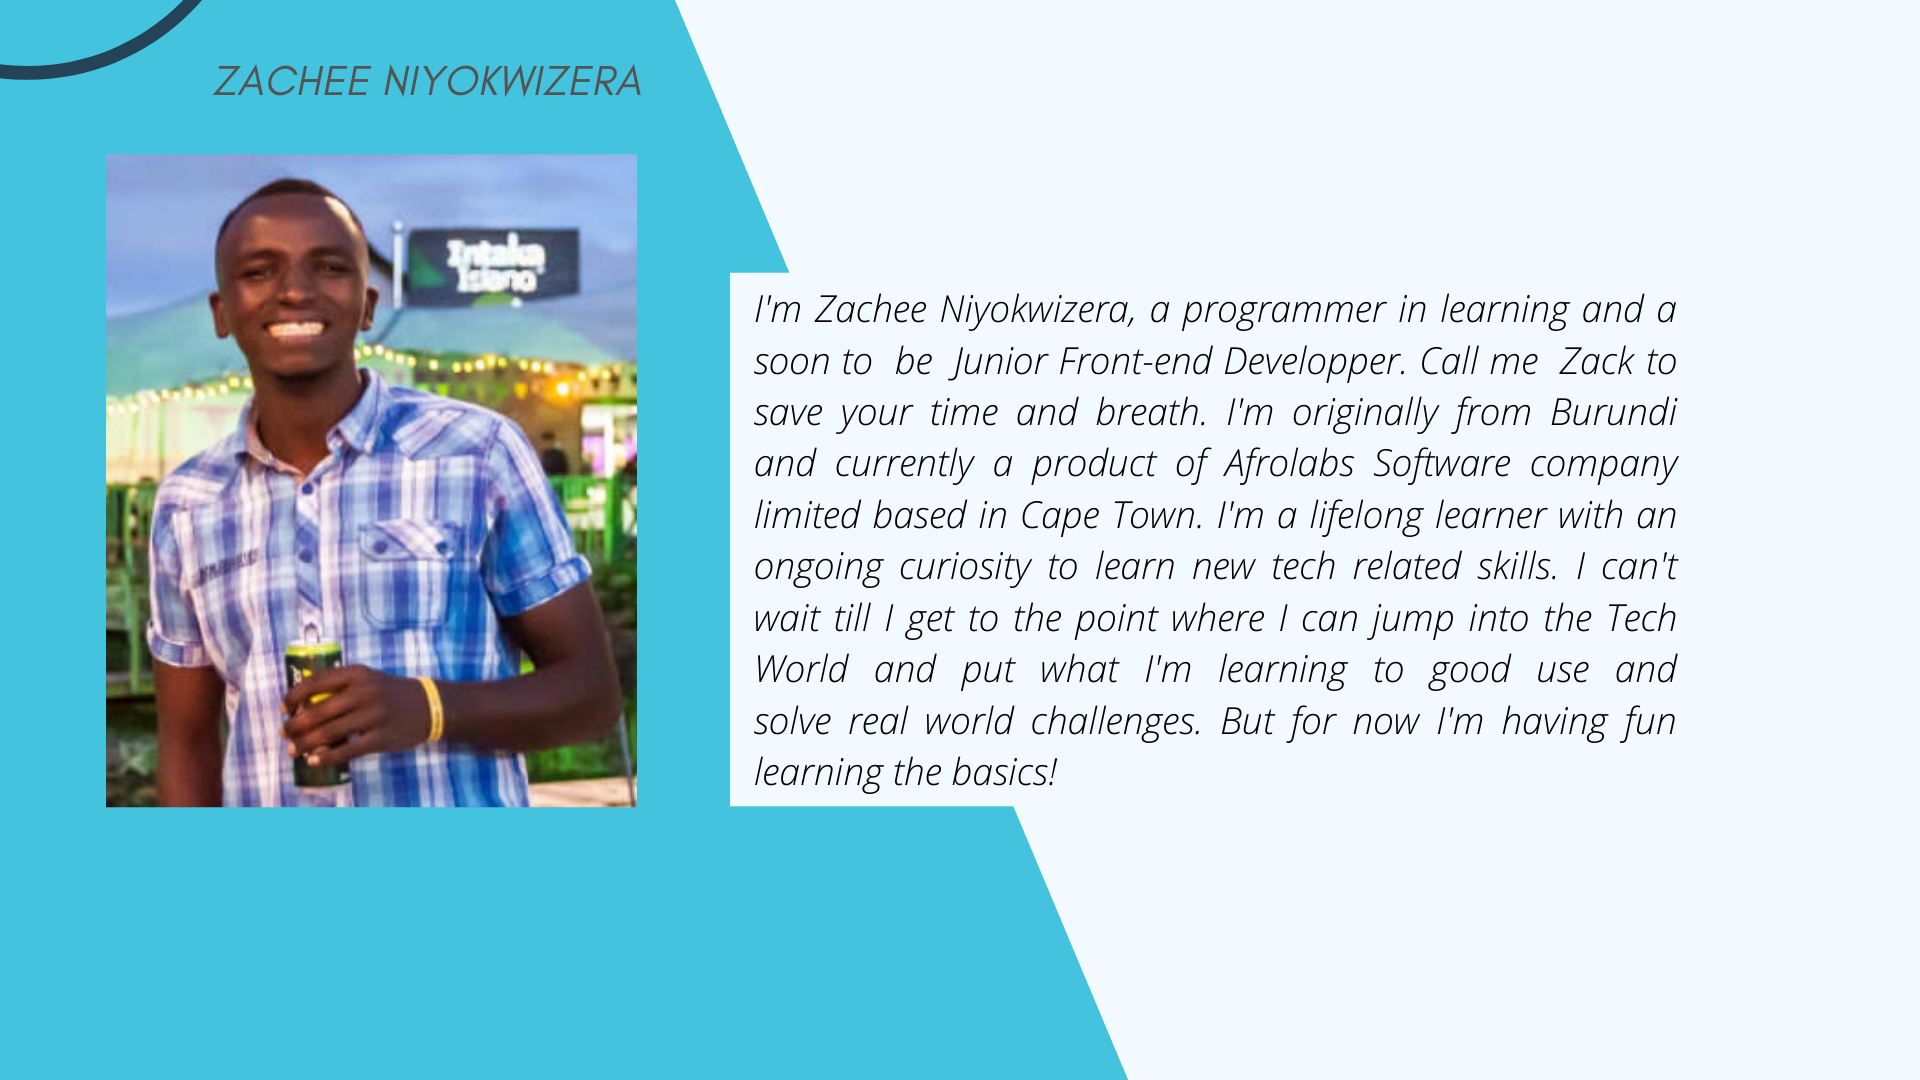
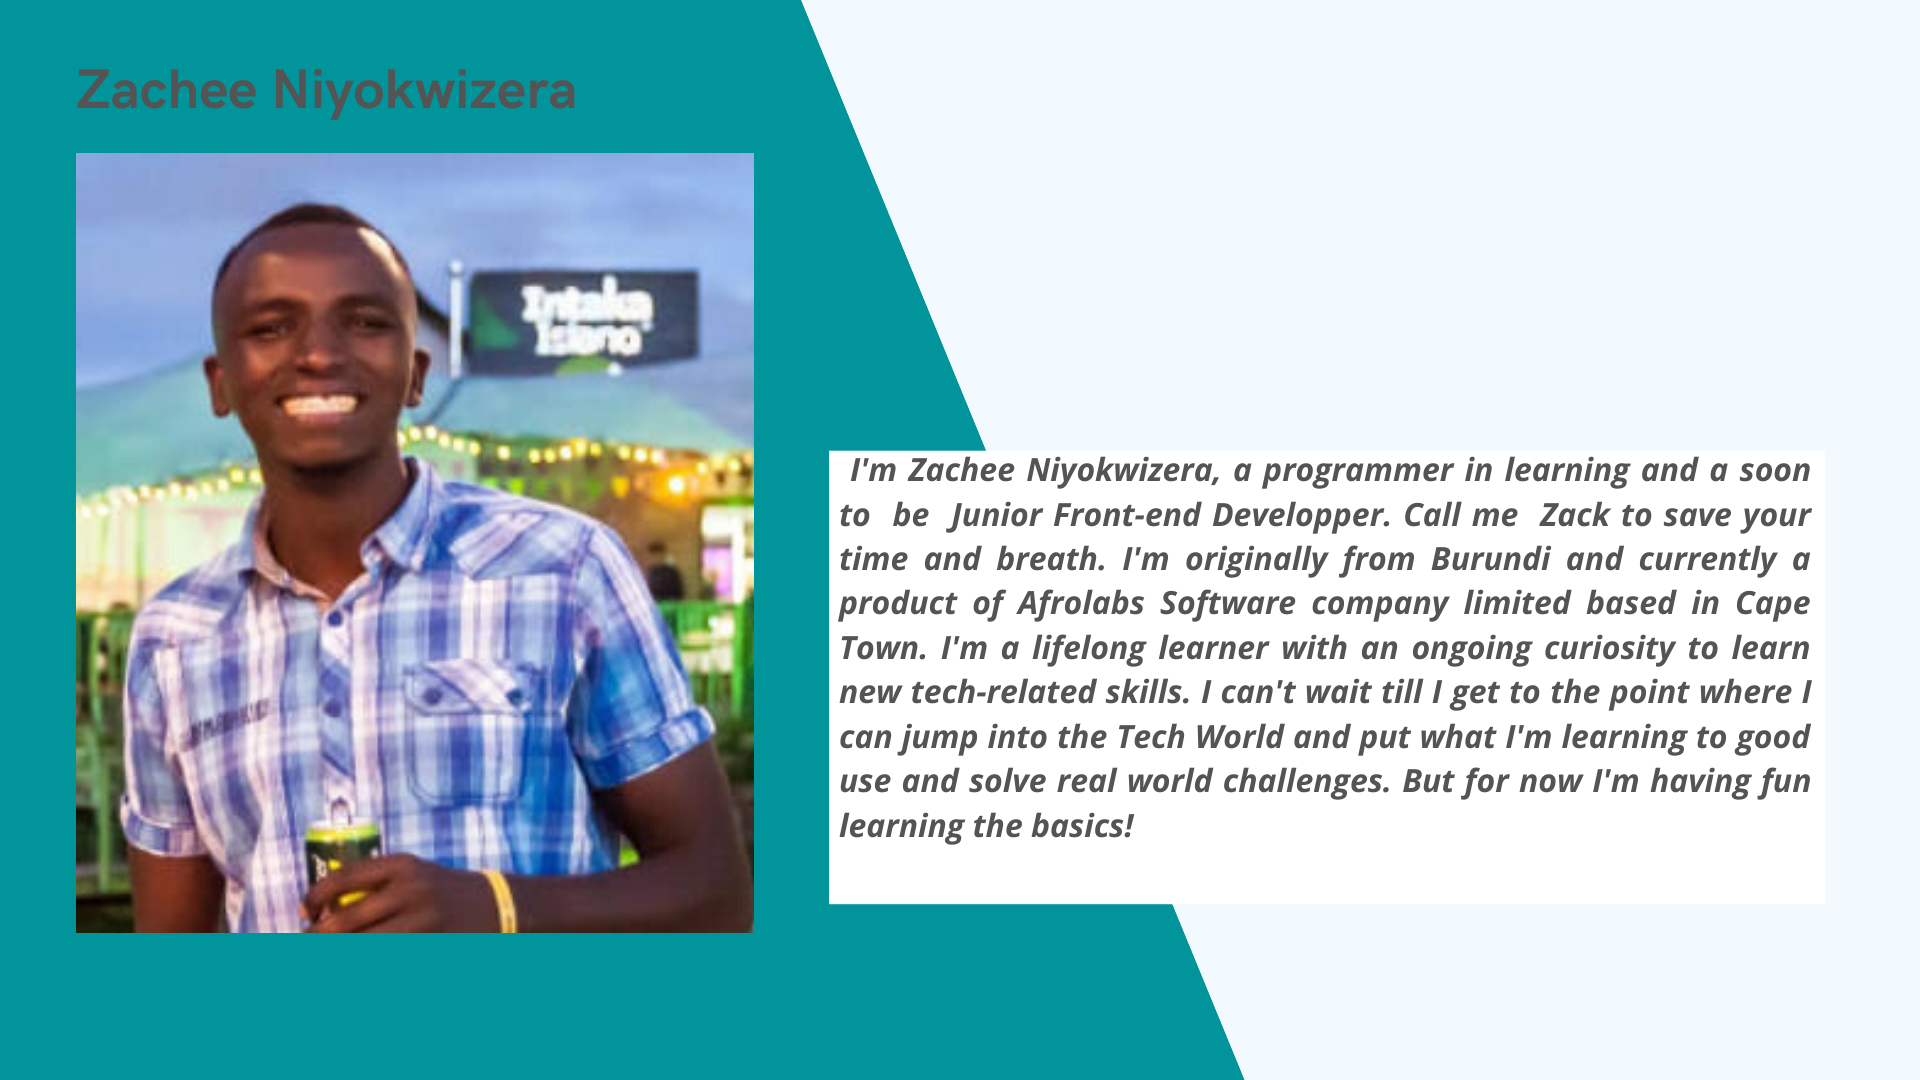
added some cool features mostly links

diff --git a/index.html b/index.html
@@ -1,25 +1,33 @@
 <!DOCTYPE html>
 <html>
 
-<meta charset="UTF-8">
-<meta name="viewport" content="width=device-width, initial-scale=1">
-<link rel="stylesheet" href="https://www.w3schools.com/w3css/4/w3.css">
-<link rel="stylesheet" href="style.css">
-<link rel="stylesheet" href="https://cdnjs.cloudflare.com/ajax/libs/font-awesome/4.7.0/css/font-awesome.min.css">
-<style>
-    html,
-    body,
-    h1,
-    h2,
-    h3,
-    h4,
-    h5,
-    h6 {
-        font-family: "Roboto", sans-serif
-    }
-</style>
+<head>
+    <meta charset="UTF-8">
+    <meta name="viewport" content="width=device-width, initial-scale=1">
+    <link rel="stylesheet" href="https://www.w3schools.com/w3css/4/w3.css">
+    <link rel="stylesheet" href="style.css">
+    <link rel="stylesheet" href="https://cdnjs.cloudflare.com/ajax/libs/font-awesome/4.7.0/css/font-awesome.min.css">
 
-<body>
+    <script>
+        function myFunction() {
+            alert("Hi there! welcome to the Portfolio of Mr zack 😄 We are glad you are here. Have Fun 😂");
+        }
+    </script>
+    <style>
+        html,
+        body,
+        h1,
+        h2,
+        h3,
+        h4,
+        h5,
+        h6 {
+            font-family: "Roboto", sans-serif
+        }
+    </style>
+</head>
+
+<body onload="myFunction()">
     <div class="navbar">
         <ul>
             <li><a href="#resume">Contact</a></li>
@@ -39,28 +47,32 @@
             <img src="calc.png" alt="Avatar" style="width:100%">
             <div class="the-container">
                 <h4><b>Javascript calculator</b></h4>
-
+                <a href='https://cdpn.io/MR-ZACK/debug/ExYBPvO/xnMabZJWWGEr'><button>Live demo</button></a>
+                <a href='https://github.com/zackniyokwizera/fcc-javascript-calculator'><button>Github</button></a>
             </div>
         </div>
         <div class="the-card">
             <img src="weather.png" alt="Avatar" style="width:100%">
             <div class="the-container">
                 <h4><b>Weather App</b></h4>
-
+                <a href='file:///C:/Users/dev/Pictures/Screenshots/Desktop/my-weather-pp/index.html'><button>Live demo</button></a>
+                <a href='https://github.com/zackniyokwizera/my-weather-app'><button>Github</button></a>
             </div>
         </div>
         <div class="the-card">
             <img src="pigame.PNG" alt="Avatar" style="width:100%">
             <div class="the-container">
                 <h4><b>Pig Game</b></h4>
-
+                <a href='file:///C:/Users/dev/Pictures/Screenshots/Desktop/4-DOM-pig-game/final/index.html'><button>Live demo</button></a>
+                <a href='https://github.com/zackniyokwizera/4-DOM-pig-game'><button>Github</button></a>
             </div>
         </div>
         <div class="the-card">
             <img src="quotes.png" alt="Avatar" style="width:100%">
             <div class="the-container">
                 <h4><b>Random quote Machine</b></h4>
-
+                <a href='https://cdpn.io/MR-ZACK/debug/BaBGqMW/mVMbGDqWWZVr'><button>Live demo</button></a>
+                <a href='https://github.com/zackniyokwizera/Random-quote-machine'><button>Github</button></a>
             </div>
         </div>
     </div>
@@ -95,7 +107,7 @@
                             <hr>
 
                             <p class="w3-large"><b><i
-                                        class="fa fa-asterisk fa-fw w3-margin-right w3-text-teal"></i>Technical
+                            class="fa fa-asterisk fa-fw w3-margin-right w3-text-teal"></i>Technical
                                     Skills</b></p>
                             <p>Programing</p>
                             <div class="version">
@@ -123,23 +135,23 @@
                             <br>
 
                             <p class="w3-large w3-text-theme"><b>
-                                    <i class="fa fa-globe fa-fw w3-margin-right w3-text-teal"></i>Languages</b>
+                            <i class="fa fa-globe fa-fw w3-margin-right w3-text-teal"></i>Languages</b>
                             </p>
                             <p>French</p>
-                            <div class="w3-light-grey w3-round-xlarge">
-                                <div class="w3-round-xlarge w3-grey" style="height:24px;width:60%"></div>
+                            <div class="w3-light-teal w3-round-xlarge">
+                                <div class="w3-round-xlarge w3-teal" style="height:24px;width:60%"></div>
                             </div>
                             <p>English</p>
-                            <div class="w3-light-grey w3-round-xlarge">
-                                <div class="w3-round-xlarge w3-grey" style="height:24px;width:90%"></div>
+                            <div class="w3-light-teal w3-round-xlarge">
+                                <div class="w3-round-xlarge w3-teal" style="height:24px;width:90%"></div>
                             </div>
                             <p>Swahili</p>
-                            <div class="w3-light-grey w3-round-xlarge">
-                                <div class="w3-round-xlarge w3-grey" style="height:24px;width:90%"></div>
+                            <div class="w3-light-teal w3-round-xlarge">
+                                <div class="w3-round-xlarge w3-teal" style="height:24px;width:96%"></div>
                             </div>
                             <p>Kirundi & Kinyarwanda</p>
-                            <div class="w3-light-grey w3-round-xlarge">
-                                <div class="w3-round-xlarge w3-grey" style="height:24px;width: 97%"></div>
+                            <div class="w3-light-teal w3-round-xlarge">
+                                <div class="w3-round-xlarge w3-teal" style="height:24px;width: 97%"></div>
                             </div>
                             <br>
                         </div>
@@ -147,12 +159,12 @@
                     <div class="my-card- w3-white">
 
                         <div class="my-container w3-shadow-gray">
-                            <h2 class="w3-text-grey w3-padding-16"><i class="fa fa-certificate fa-fw w3-margin-right w3-xxlarge w3-text-yellow"></i>Hobbies
+                            <h2 class="w3-text-grey w3-padding-16"><i class="fa fa-bars fa-fw w3-margin-right w3-xxlarge w3-text-teal"></i>Hobbies
                             </h2>
 
-                            <p>Going to the Gym</p> <br>
-                            <p>Dancing & Singing</p> <br>
-                            <p>Playing Video Games</p>
+                            <p><i class="fa fa-home fa-fw w3-margin-right w3-text-teal"></i>Going to the Gym</p> <br>
+                            <p><i class="fa fa-headphones fa-fw w3-margin-right w3-text-teal"></i>Dancing & <i class="fa fa-film fa-fw w3-margin-right w3-text-teal"></i>Watching movie</p> <br>
+                            <p><i class="fa fa-gamepad fa-fw w3-margin-right w3-text-teal"></i>Playing Video Games</p>
 
 
                         </div> <br>
@@ -164,7 +176,7 @@
                 <div class="w3-twothird">
 
                     <div class="w3-container w3-card w3-white w3-margin-bottom">
-                        <h2 class="w3-text-grey w3-padding-16"><i class="fa fa-suitcase fa-fw w3-margin-right w3-xxlarge w3-text-yellow"></i>Work Experience
+                        <h2 class="w3-text-grey w3-padding-16"><i class="fa fa-suitcase fa-fw w3-margin-right w3-xxlarge w3-text-teal"></i>Work Experience
                         </h2>
                         <div class="w3-container">
                             <h5 class="w3-opacity"><b> Internship / Afrolabs</b></h5>
@@ -192,7 +204,7 @@
                     </div>
 
                     <div class="w3-container w3-card w3-white">
-                        <h2 class="w3-text-grey w3-padding-16"><i class="fa fa-certificate fa-fw w3-margin-right w3-xxlarge w3-text-yellow"></i>Education
+                        <h2 class="w3-text-grey w3-padding-16"><i class="fa fa-certificate fa-fw w3-margin-right w3-xxlarge w3-text-teal"></i>Education
                         </h2>
                         <div class="w3-container">
                             <h5 class="w3-opacity"><b>Coding courses: Freecodecamp, W3school & Udemy</b></h5>
@@ -232,7 +244,7 @@
                             <br>
                         </div>
                         <div class="w3-container">
-                            <h2 class="w3-text-grey w3-padding-16"><i class=" fa fa-certificate fa-fw w3-margin-right w3-xxlarge w3-text-yellow "></i>Formal Trainings (Save the children)</h2>
+                            <h2 class="w3-text-grey w3-padding-16"><i class=" fa fa-certificate fa-fw w3-margin-right w3-xxlarge w3-text-teal"></i>Formal Trainings (Save the children)</h2>
                             <h6 class="w3-text-teal "><i class="fa fa-calendar fa-fw w3-margin-right "></i> March 2012
                             </h6>
                             <p> T.O.T Training | certificate</p>
@@ -245,33 +257,30 @@
                             <h6 class="w3-text-teal "><i class="fa fa-calendar fa-fw w3-margin-right "></i> Jan 2017
                             </h6>
                             <p>Hummanitarian Principals Training | certificate</p> <br>
-
                         </div>
 
                         <!-- End Right Column -->
                     </div>
                     <!-- End Grid -->
                 </div>
-
-
                 <!-- End Page Container -->
             </div>
-            <footer class="w3-container w3-grey w3-center w3-width-100% w3-margin-top">
-                <p>Find me on social media:</p>
-                <i class="fa fa-facebook-official w3-hover-opacity "></i>
-                <i class="fa fa-instagram w3-hover-opacity "></i>
-                <i class="fa fa-twitter w3-hover-opacity "></i>
-                <i class="fa fa-github w3-hover-opacity "></i>
-                <i class="fa fa-codepen w3-hover-opacity "></i>
-                <i class="fa fa-pinterest-p w3-hover-opacity "></i>
-                <i class="fa fa-linkedin w3-hover-opacity "></i>
-                <i class="w3-left ">Copyright &copy; 2019 zachee Niyokwizera.</i>
-                <BR>
-                <i class="w3-left ">All rights Reserved.</i>
-                <a href=" " target="_blank "></a>
+            <div class="foot">
+                <footer class="w3-container w3-teal  w3-left w3-margin-200px">
+                    <p class="w3-container w3-teal w3-left w3-margin-top">Copyright &#9400; 2019 Zachee Niyokwizera <br> All rights reserved
+                    </p>
+                    <em> Just#followmeonsocialmedia: #FollowMeOnSocialMedia: #FollowMeOnSocialMedia:#FollowMeOnSocialMedia:#FollowMeOnSocialMedia:</em>
+                    <i>Find me on social media:</i>
 
-            </footer>
-
+                    <i class="fa fa-facebook-official w3-hover-opacity"></i>
+                    <i class="fa fa-instagram w3-hover-opacity"></i>
+                    <i class="fa fa-codepen w3-hover-opacity"></i>
+                    <i class="fa fa-pinterest-p w3-hover-opacity"></i>
+                    <i class="fa fa-github w3-hover-opacity"></i>
+                    <i class="fa fa-twitter w3-hover-opacity"></i>
+                    <i class="fa fa-linkedin w3-hover-opacity"></i>
+                </footer>
+            </div>
 </body>
 
 </html>

diff --git a/style.css b/style.css
@@ -24,12 +24,12 @@
         }
         
         li a:hover:not(.active) {
-            background-color: rgb(50, 195, 225);
+            background-color: teal;
         }
         
         li a.active {
             color: white;
-            background-color: rgb(50, 195, 225);
+            background-color: teal;
             float: right;
         }
         
@@ -73,7 +73,7 @@
         /* styling the projects cards*/
         
         .the-card:hover {
-            box-shadow: 0 8px 16px 0 green;
+            box-shadow: 0 8px 16px 0 teal;
         }
         
         .the-container {
@@ -91,12 +91,40 @@
             box-shadow: 0 4px 8px 0 grey;
         }
         
-        .my-card {
+        button {
+            background-color: teal;
+            float: right;
+            margin: 15px;
+            border-radius: 12px;
+        }
+        
+        .my-card- {
             /* Add shadows to create the "card" effect */
-            box-shadow: 10 14px 18px 10 grey;
+            box-shadow: 0 4px 8px 0 grey;
         }
         /* Add some padding inside the card container */
         
         .my-container {
             padding: 2px 16px;
+        }
+        
+        .foot {
+            width: 200%;
+            margin-top: 20px;
+            margin-left: -70px;
+        }
+        
+        em {
+            color: seagreen;
+        }
+        
+        p.foot {
+            text-align: left;
+            font-style: italic;
+            margin-right: 200px;
+        }
+        
+        i.foot {
+            text-align: left;
+            margin-left: 600px;
         }
